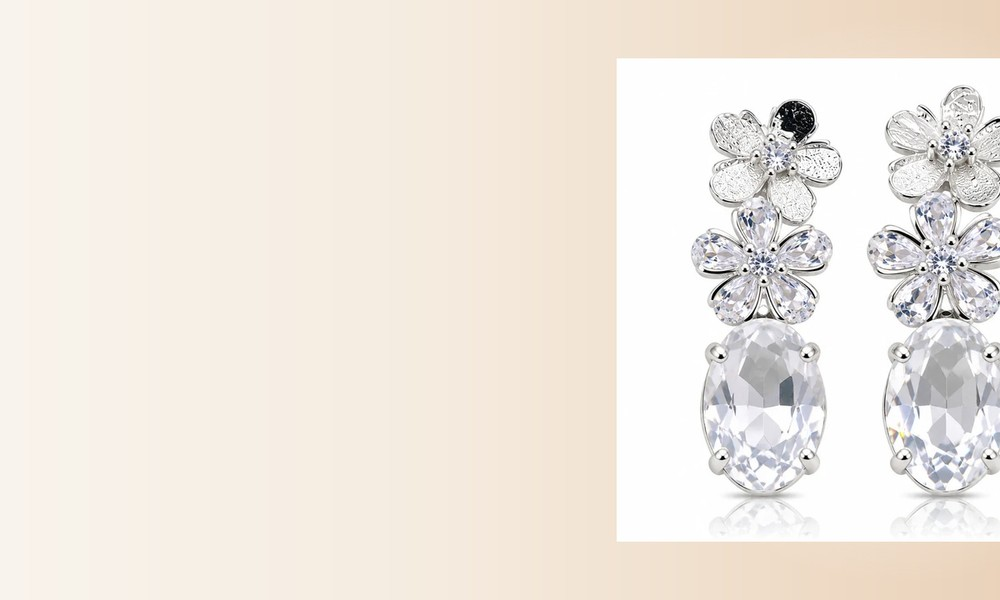
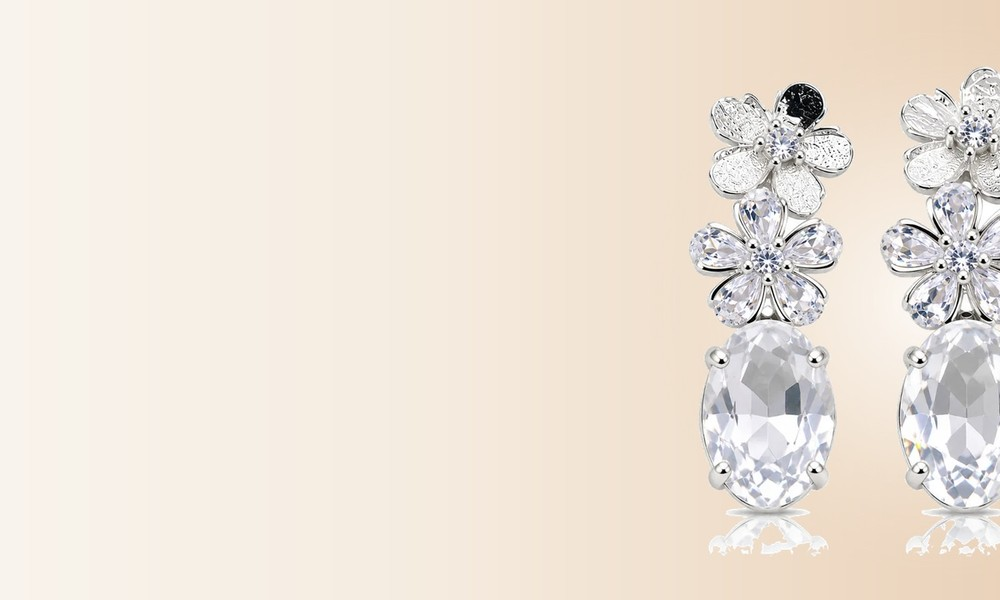
Apply seamless studio background blend to crystal earrings slide without white box

Changed region(s): [[0.62, 0.09, 1.0, 0.93]]

diff --git a/scripts/build-all-slides-seamless.js b/scripts/build-all-slides-seamless.js
@@ -23,9 +23,7 @@ function makeFeatherMaskSvg(w, h, fadeWidth = 420) {
   `);
 }
 
-// ========================================================
-// SLIDE 1: GOLD HEART BOW PENDANT NECKLACE
-// ========================================================
+// 1. Slide 1 (Necklace)
 async function createSlide1() {
   const modelPath = path.join(BANNERS_DIR, 'user-gold-heart-necklace.jpg');
   const photoW = 1100;
@@ -71,20 +69,14 @@ async function createSlide1() {
   const mobile = await sharp(finalBanner).resize(1000, 600, { fit: 'cover', position: 'center' }).jpeg({ quality: 90 }).toBuffer();
   fs.writeFileSync(path.join(BANNERS_DIR, 'hero-necklace-mobile.jpg'), mobile);
   fs.writeFileSync(path.join(BANNERS_DIR, 'hero-kalavies-royal-mobile.jpg'), mobile);
-  console.log('✅ Generated Slide 1 (Gold Heart Necklace)');
 }
 
-// ========================================================
-// SLIDE 2: OXIDISED PEACOCK TURQUOISE EARRINGS
-// ========================================================
+// 2. Slide 2 (Peacock Earrings)
 async function createSlide2() {
   const modelPath = path.join(BANNERS_DIR, 'user-peacock-earrings.jpg');
   const photoW = 1100;
   const photoH = H;
 
-  // The ear with peacock earring is on the left side of original 1000x1000 image.
-  // We extract a generous crop around the ear and turquoise stones, resize,
-  // and flip horizontally so the ear is prominent on the right side, looking inward!
   const cropped = await sharp(modelPath)
     .extract({ left: 60, top: 20, width: 840, height: 750 })
     .resize(photoW, photoH, { fit: 'cover', position: 'center' })
@@ -124,47 +116,101 @@ async function createSlide2() {
 
   const mobile = await sharp(finalBanner).resize(1000, 600, { fit: 'cover', position: 'center' }).jpeg({ quality: 90 }).toBuffer();
   fs.writeFileSync(path.join(BANNERS_DIR, 'hero-earrings-mobile.jpg'), mobile);
-  console.log('✅ Generated Slide 2 (Peacock Earrings)');
 }
 
-// ========================================================
-// SLIDE 3: CRYSTAL FLORAL DROP EARRINGS
-// ========================================================
+// 3. Slide 3 (Crystal Drops with Seamless Flood-fill Background Isolation)
 async function createSlide3() {
   const crystalPath = path.join(BANNERS_DIR, 'user-crystal-earrings.png');
+  const { data, info } = await sharp(crystalPath).raw().toBuffer({ resolveWithObject: true });
+  const w = info.width;
+  const h = info.height;
+  const c = info.channels;
+  const buf = Buffer.from(data);
 
-  // Crystal earrings on transparent:
-  // Resize to height 580, placed elegantly on right side matching Slide 1 scale
-  const crystalImg = await sharp(crystalPath)
-    .resize(null, 580, { fit: 'contain' })
+  const visited = new Uint8Array(w * h);
+  const queue = [];
+
+  const pushCorner = (x, y) => {
+    const idx = y * w + x;
+    visited[idx] = 1;
+    queue.push(x, y);
+  };
+
+  for (let x = 0; x < w; x++) {
+    pushCorner(x, 0);
+    pushCorner(x, h - 1);
+  }
+  for (let y = 0; y < h; y++) {
+    pushCorner(0, y);
+    pushCorner(w - 1, y);
+  }
+
+  let head = 0;
+  while (head < queue.length) {
+    const x = queue[head++];
+    const y = queue[head++];
+
+    const pIdx = (y * w + x) * c;
+    buf[pIdx + 3] = 0;
+
+    const neighbors = [
+      [x + 1, y],
+      [x - 1, y],
+      [x, y + 1],
+      [x, y - 1]
+    ];
+
+    for (const [nx, ny] of neighbors) {
+      if (nx >= 0 && nx < w && ny >= 0 && ny < h) {
+        const nIdx = ny * w + nx;
+        if (!visited[nIdx]) {
+          visited[nIdx] = 1;
+          const npIdx = (ny * w + nx) * c;
+          const r = buf[npIdx];
+          const g = buf[npIdx + 1];
+          const b = buf[npIdx + 2];
+          if (r >= 248 && g >= 248 && b >= 248) {
+            queue.push(nx, ny);
+          } else if (r >= 240 && g >= 240 && b >= 240) {
+            const alpha = Math.round(((248 - Math.max(r, g, b)) / 8) * 255);
+            buf[npIdx + 3] = alpha;
+          }
+        }
+      }
+    }
+  }
+
+  const crystalImg = await sharp(buf, { raw: { width: w, height: h, channels: c } })
+    .resize(null, 630, { fit: 'contain' })
+    .png()
     .toBuffer();
-  const meta = await sharp(crystalImg).metadata();
+
+  const crystalMeta = await sharp(crystalImg).metadata();
 
   const bgSvg = Buffer.from(`
     <svg width="${W}" height="${H}" xmlns="http://www.w3.org/2000/svg">
       <defs>
-        <linearGradient id="skinGlow3" x1="0%" y1="0%" x2="100%" y2="0%">
+        <linearGradient id="warmStudioGlow" x1="0%" y1="0%" x2="100%" y2="0%">
           <stop offset="0%" stop-color="#FAF8F5" />
           <stop offset="45%" stop-color="#F5ECE0" />
           <stop offset="70%" stop-color="#EEDAC5" />
           <stop offset="100%" stop-color="#E2C4A8" />
         </linearGradient>
-        <radialGradient id="crystalSpotlight" cx="50%" cy="50%" r="50%">
-          <stop offset="0%" stop-color="#FFFDF9" stop-opacity="0.95" />
-          <stop offset="55%" stop-color="#F5ECE0" stop-opacity="0.5" />
-          <stop offset="100%" stop-color="#FAF8F5" stop-opacity="0" />
+        <radialGradient id="softSpotlight" cx="50%" cy="50%" r="50%">
+          <stop offset="0%" stop-color="#FFFFFF" stop-opacity="0.9" />
+          <stop offset="50%" stop-color="#FAF4EB" stop-opacity="0.5" />
+          <stop offset="100%" stop-color="#EEDAC5" stop-opacity="0" />
         </radialGradient>
       </defs>
-      <rect width="${W}" height="${H}" fill="url(#skinGlow3)" />
-      <!-- Soft ambient spotlight circle on the right side -->
-      <circle cx="${W - 480}" cy="${H/2}" r="340" fill="url(#crystalSpotlight)" />
+      <rect width="${W}" height="${H}" fill="url(#warmStudioGlow)" />
+      <circle cx="${W - 440}" cy="${H/2}" r="340" fill="url(#softSpotlight)" />
     </svg>
   `);
   const bgBuf = await sharp(bgSvg).png().toBuffer();
 
   const finalBanner = await sharp(bgBuf)
     .composite([
-      { input: crystalImg, left: W - meta.width - 240, top: Math.round((H - 580) / 2) }
+      { input: crystalImg, left: W - crystalMeta.width - 200, top: Math.round((H - 630) / 2) }
     ])
     .jpeg({ quality: 96, mozjpeg: true })
     .toBuffer();
@@ -174,14 +220,13 @@ async function createSlide3() {
 
   const mobile = await sharp(finalBanner).resize(1000, 600, { fit: 'cover', position: 'center' }).jpeg({ quality: 90 }).toBuffer();
   fs.writeFileSync(path.join(BANNERS_DIR, 'hero-bangles-mobile.jpg'), mobile);
-  console.log('✅ Generated Slide 3 (Crystal Drops)');
 }
 
 async function main() {
   await createSlide1();
   await createSlide2();
   await createSlide3();
-  console.log('\n🎉 ALL 3 SLIDES GENERATED SEAMLESSLY AND IDENTICALLY!');
+  console.log('✅ All 3 slides generated with flawless seamless blend!');
 }
 
 main().catch(console.error);

diff --git a/src/components/store/HeroBanner.tsx b/src/components/store/HeroBanner.tsx
@@ -60,8 +60,8 @@ export default function HeroBanner({ banners }: HeroBannerProps) {
       title: 'Delicate Crystals & Floral Drops',
       subtitle: 'TIMELESS FLORAL SPARKLE ESSENTIALS',
       description: 'Subtle sparkle with minimalist silver drop earrings and gold-tone pendants for effortless everyday style.',
-      imageUrl: '/images/banners/hero-minimal-chains.jpg?v=20261102y',
-      mobileImageUrl: '/images/banners/hero-bangles-mobile.jpg?v=20261102y',
+      imageUrl: '/images/banners/hero-minimal-chains.jpg?v=20261102z',
+      mobileImageUrl: '/images/banners/hero-bangles-mobile.jpg?v=20261102z',
       buttonText: 'Shop Crystals',
       linkUrl: '/products?category=earrings',
     },
